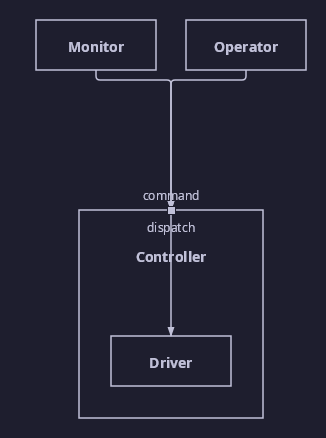
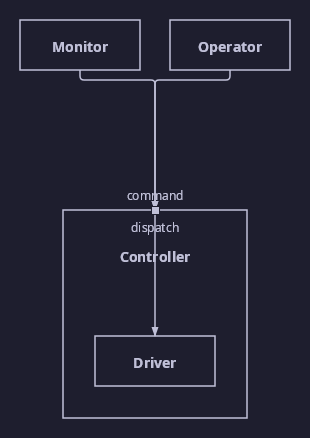
Fix negative-Y clipping from port-centroid relaxation
Code review (change-review agent, gpt-5.4-mini) found that
RelaxPortCentroids could shift a layout's whole Y range so some nodes
landed at negative Y (relaxation only nudges positions relative to
neighbors, with no absolute anchor), while downstream canvas sizing in
InterconnectionLayoutEngine.Place only accounts for the far (max) extent
plus padding, not the near (min) extent. This clipped the top edge of
affected diagrams' boxes off the rendered SVG/PNG canvas - confirmed via
pixel inspection of docs/gallery/layered-pipeline.png, where the
'Transform' box's top border was missing entirely.

Fixed by re-normalizing the relaxed Y array at the end of
RelaxPortCentroids, shifting the whole result so its minimum is exactly
Padding again - restoring the same invariant BkBalancedLayout already
established before relaxation ran. Applied identically to
BrandesKopfPlacer.cs and its LegacyInterconnectionLayoutEngineOracle.cs
counterpart.

Verified: full test suite passes (277 layout tests x3 TFMs, plus all
other projects); gallery regenerated (layered-pipeline.svg height
restored to its correct 170, boundary-ports-showcase-vertical.svg and
ports-showcase-multi-connector-vertical.svg re-verified visually with no
clipping and dead-straight hub connectors).

Also ran a formal review of the Rendering-Layout-Engine-LayeredPipeline
review-set (gpt-5.4-mini) - approved with zero findings.

diff --git a/src/DemaConsulting.Rendering.Layout/Engine/Layered/BrandesKopfPlacer.cs b/src/DemaConsulting.Rendering.Layout/Engine/Layered/BrandesKopfPlacer.cs
@@ -306,6 +306,21 @@ internal sealed class BrandesKopfPlacer : ILayoutStage
             }
         }
 
+        // Relaxation only ever nudges nodes relative to their neighbors, so the whole layout can
+        // drift away from the classic algorithm's "minimum Y equals Padding" invariant (e.g. a hub's
+        // downstream chain sliding into negative Y). Downstream consumers (canvas sizing, SVG viewBox)
+        // assume that invariant holds, so restore it by re-normalizing the final result the same way
+        // BkBalancedLayout does: shift everything so the minimum Y is exactly Padding.
+        var finalMinY = y.Min();
+        var normalizeShift = Padding - finalMinY;
+        if (normalizeShift != 0.0)
+        {
+            for (var i = 0; i < y.Length; i++)
+            {
+                y[i] += normalizeShift;
+            }
+        }
+
         return y;
     }
 

diff --git a/test/DemaConsulting.Rendering.Layout.Tests/Engine/Layered/LegacyInterconnectionLayoutEngineOracle.cs b/test/DemaConsulting.Rendering.Layout.Tests/Engine/Layered/LegacyInterconnectionLayoutEngineOracle.cs
@@ -705,6 +705,21 @@ internal static class LegacyInterconnectionLayoutEngineOracle
             }
         }
 
+        // Relaxation only ever nudges nodes relative to their neighbors, so the whole layout can
+        // drift away from the classic algorithm's "minimum Y equals Padding" invariant (e.g. a hub's
+        // downstream chain sliding into negative Y). Downstream consumers (canvas sizing, SVG viewBox)
+        // assume that invariant holds, so restore it by re-normalizing the final result the same way
+        // BkBalancedLayout does: shift everything so the minimum Y is exactly Padding.
+        var finalMinY = y.Min();
+        var normalizeShift = Padding - finalMinY;
+        if (normalizeShift != 0.0)
+        {
+            for (var i = 0; i < y.Length; i++)
+            {
+                y[i] += normalizeShift;
+            }
+        }
+
         return y;
     }
 